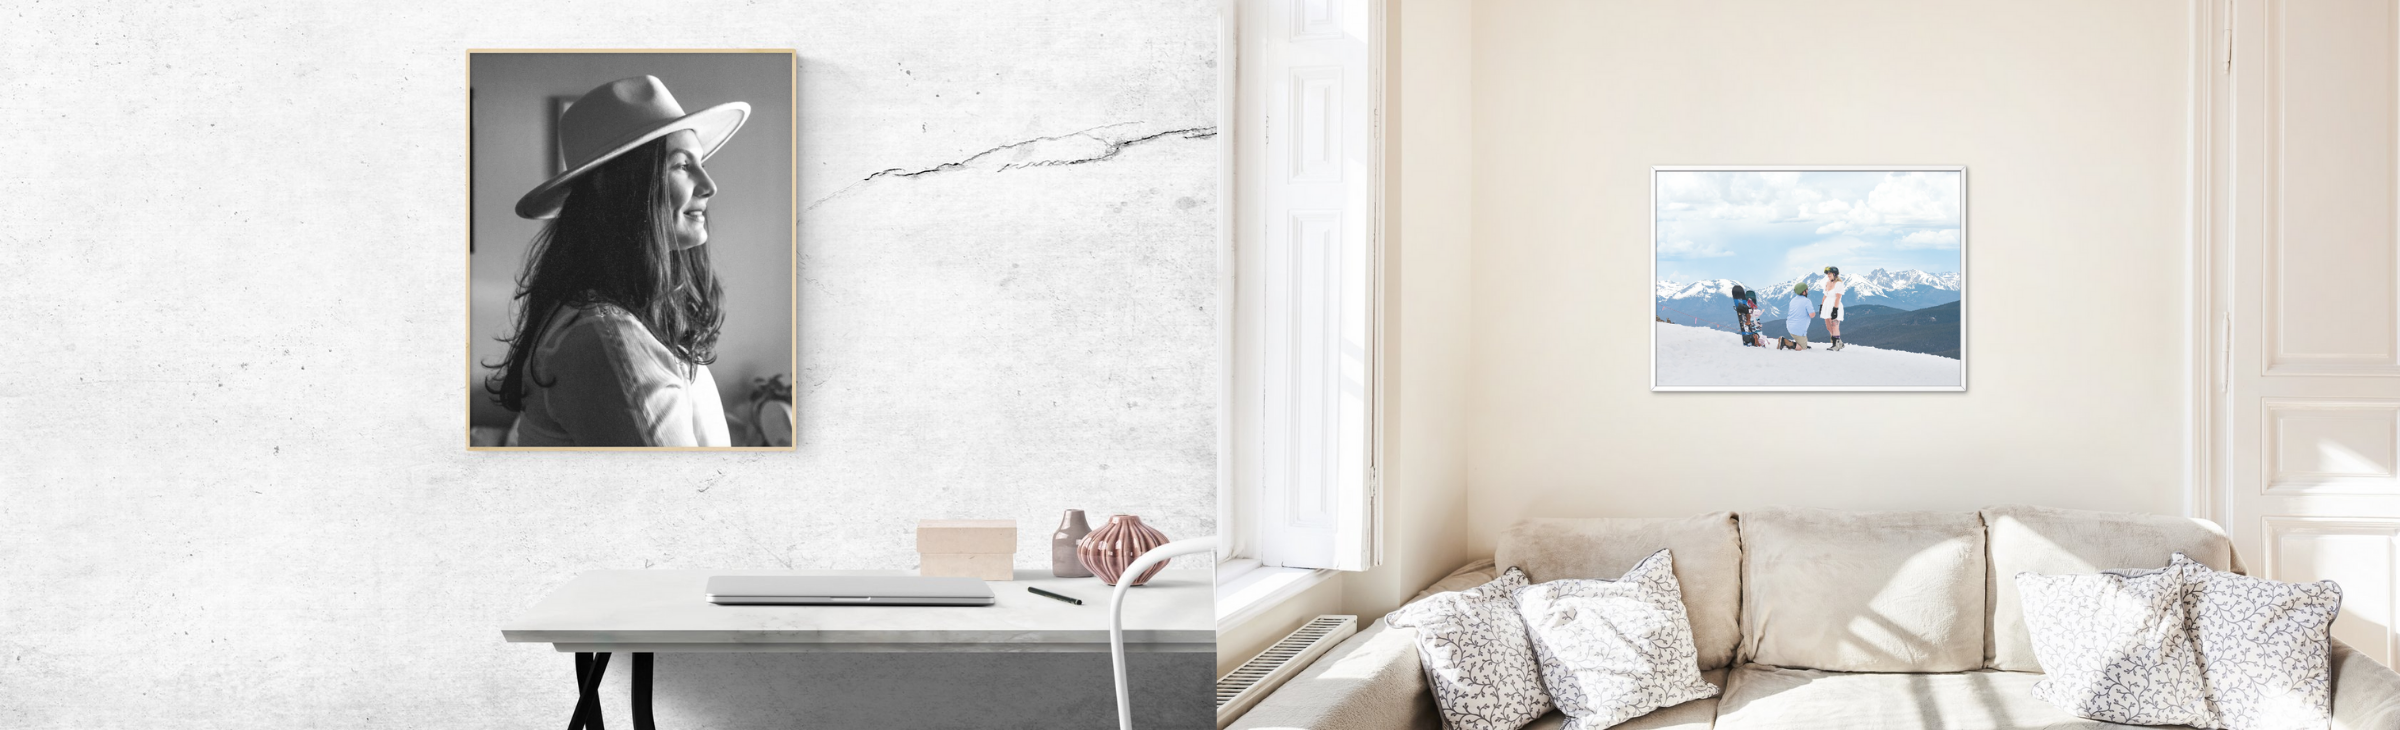
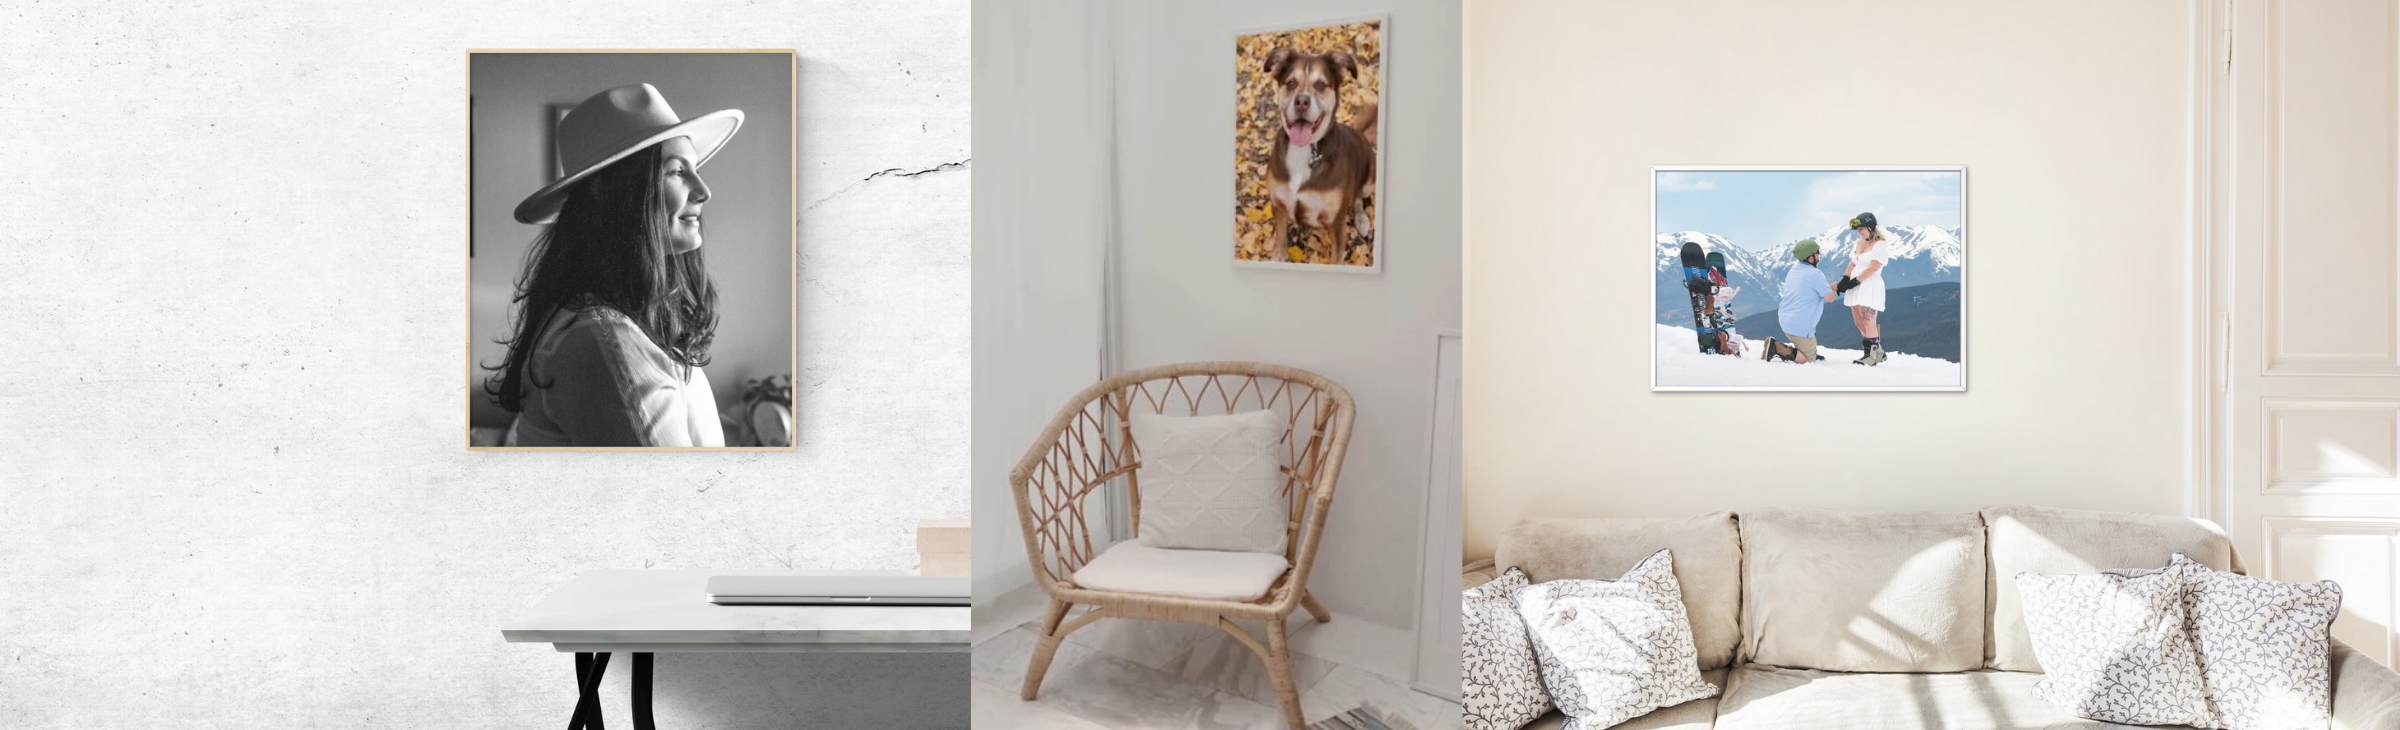
updated jumbotron in index

Changed region(s): [[0.4062, 0.0, 0.625, 1.0], [0.6875, 0.211, 0.8438, 0.5123], [0.2188, 0.0904, 0.3438, 0.6027]]

diff --git a/index.html b/index.html
@@ -105,7 +105,7 @@
     <!-- Jumbotron Início -->
     <div class="jumbotron">
       <!-- Jumbotron Carousel -->
-      <div class="jumbotron-carousel">
+      <div class="jumbotron-carousel" id="index-page-jumbotron">
         <div
           id="photoCarousel"
           class="carousel slide"
@@ -116,8 +116,8 @@
             <!-- First Image (Active) -->
             <div class="carousel-item active">
               <img
-                src="./images/bg/gif/10.webp"
-                class="d-block w-100"
+                src="./images/bg/gif/10.png"
+                class="d-block w-100 img-responsive"
                 alt="Photo 10"
                 style="
                   object-fit: cover;
@@ -169,7 +169,7 @@
             </div>
             <div class="carousel-item">
               <img
-                src="./images/bg/gif/14.webp"
+                src="./images/bg/gif/14.png"
                 class="d-block w-100"
                 alt="Photo 14"
                 style="
@@ -182,7 +182,7 @@
             </div>
             <div class="carousel-item">
               <img
-                src="./images/bg/gif/15.webp"
+                src="./images/bg/gif/16.png"
                 class="d-block w-100"
                 alt="Photo 15"
                 style="
@@ -195,7 +195,7 @@
             </div>
             <div class="carousel-item">
               <img
-                src="./images/bg/gif/16.webp"
+                src="./images/bg/gif/24.png"
                 class="d-block w-100"
                 alt="Photo 16"
                 style="
@@ -211,6 +211,19 @@
                 src="./images/bg/gif/17.webp"
                 class="d-block w-100"
                 alt="Photo 17"
+                style="
+                  object-fit: cover;
+                  width: 100%;
+                  max-height: 450px;
+                  min-height: 300px;
+                "
+              />
+            </div>
+            <div class="carousel-item">
+              <img
+                src="./images/bg/gif/18 (5).png"
+                class="d-block w-100"
+                alt="Framed Family Photos Photo 18"
                 style="
                   object-fit: cover;
                   width: 100%;
